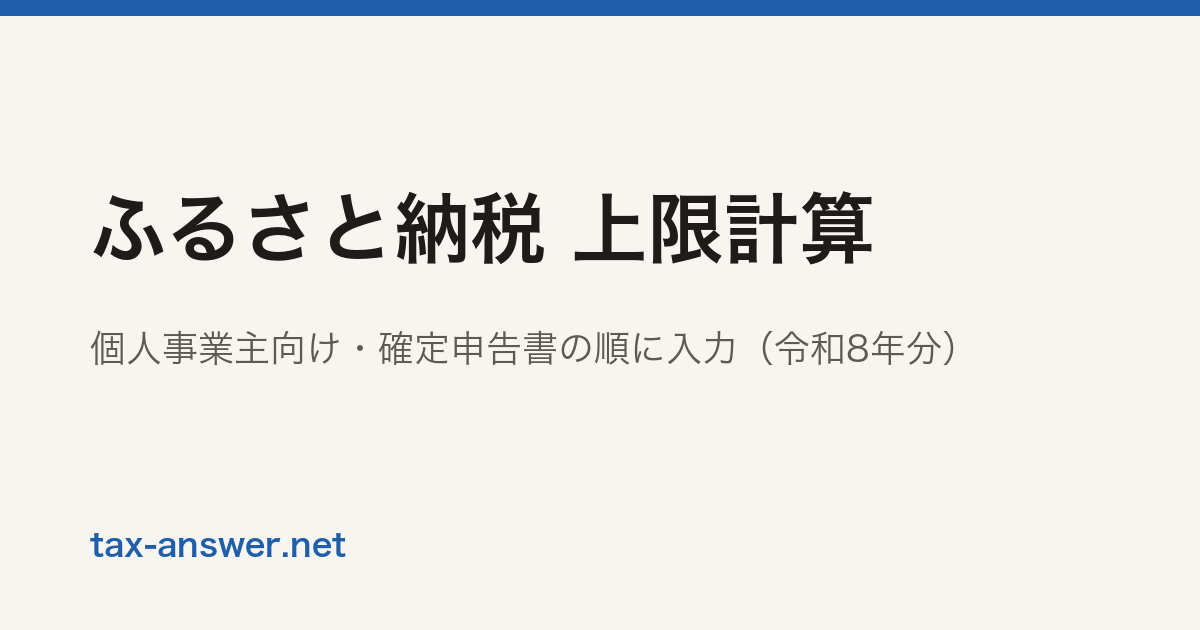
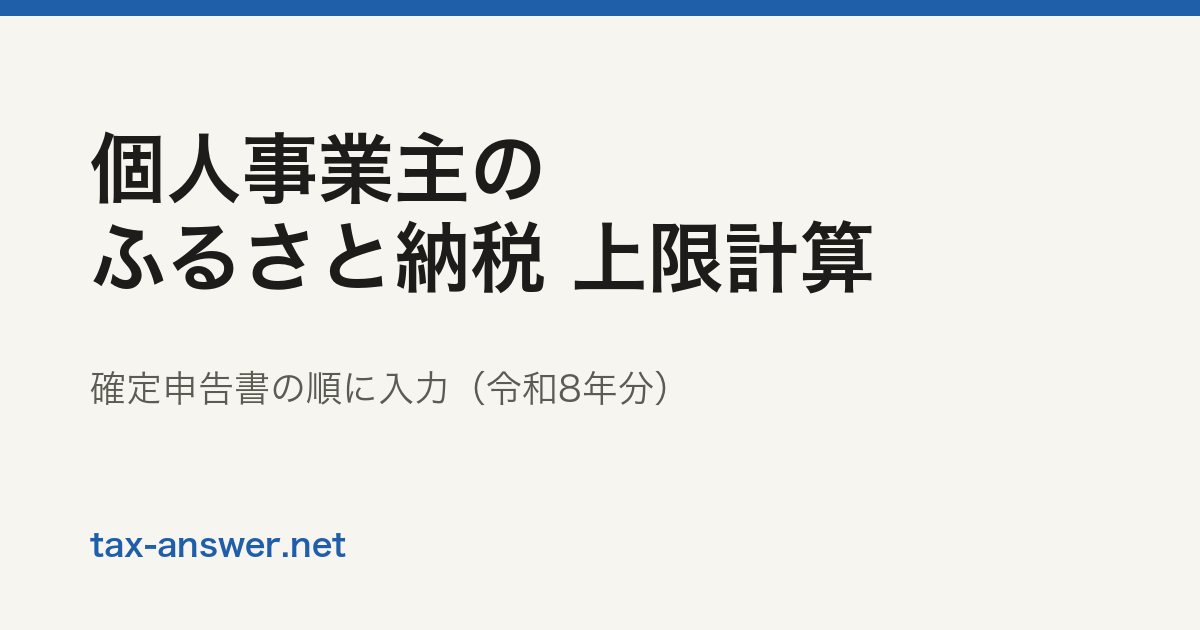
feat: name sole proprietors in the furusato heading and share image (#60)

Changed region(s): [[0.0617, 0.2111, 0.74, 0.4825], [0.0617, 0.5127, 0.6167, 0.6635], [0.6475, 0.5127, 0.8017, 0.573]]

diff --git a/src/furusato/FurusatoLimit.vue b/src/furusato/FurusatoLimit.vue
@@ -109,8 +109,8 @@ const resultRows = computed(() => [
 <template>
   <div class="mx-auto max-w-6xl px-4 py-8 sm:px-6">
     <header class="flex flex-wrap items-baseline justify-between gap-2 border-b-2 border-rule-strong pb-3">
-      <h1 class="text-2xl font-bold tracking-wide">ふるさと納税 上限計算</h1>
-      <p class="text-sm text-ink-muted">個人事業主・令和8年分（2026年）</p>
+      <h1 class="text-2xl font-bold tracking-wide">ふるさと納税 上限計算（個人事業主）</h1>
+      <p class="text-sm text-ink-muted">令和8年分（2026年）</p>
     </header>
 
     <main class="mt-8 grid gap-10 md:grid-cols-[minmax(0,22rem)_minmax(0,1fr)]">

diff --git a/plans/feat-furusato-title-sole-proprietor.md b/plans/feat-furusato-title-sole-proprietor.md
@@ -1,0 +1,5 @@
+# ふるさと納税ページに「個人事業主」を明記
+
+- 見出しを「ふるさと納税 上限計算（個人事業主）」にし、横の補足から「個人事業主・」を外す
+- 共有画像のタイトルを「個人事業主の／ふるさと納税 上限計算」の2行にする（1行では幅に収まらない）
+- `scripts/make-images.sh` の `share_image` にタイトルの位置と行数を渡せるようにする
